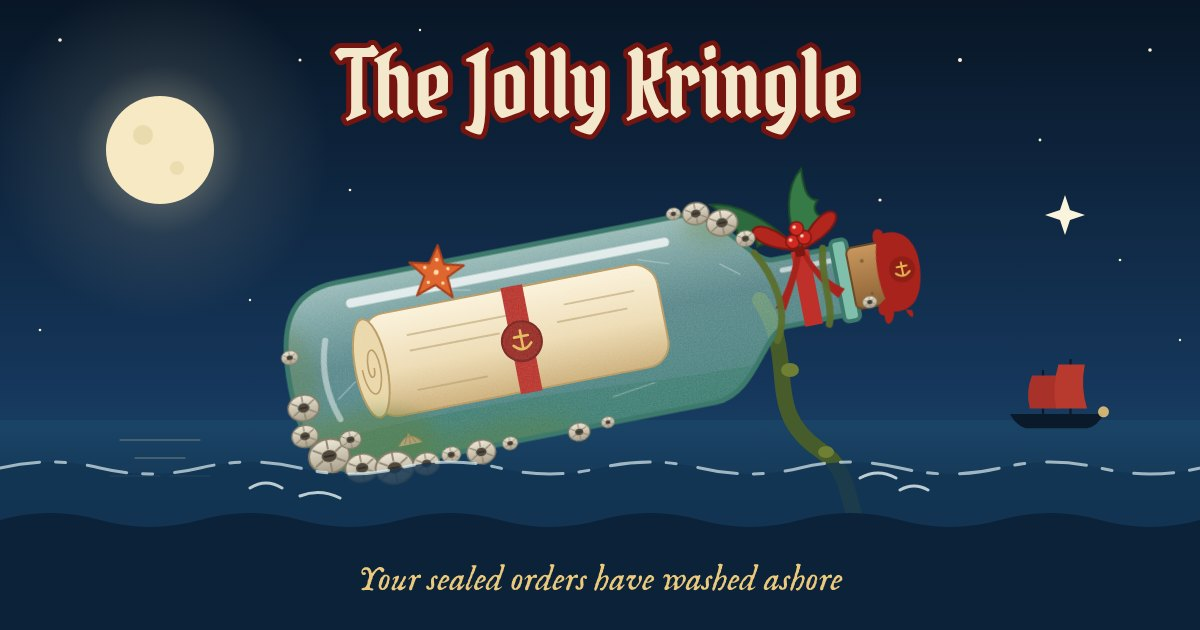
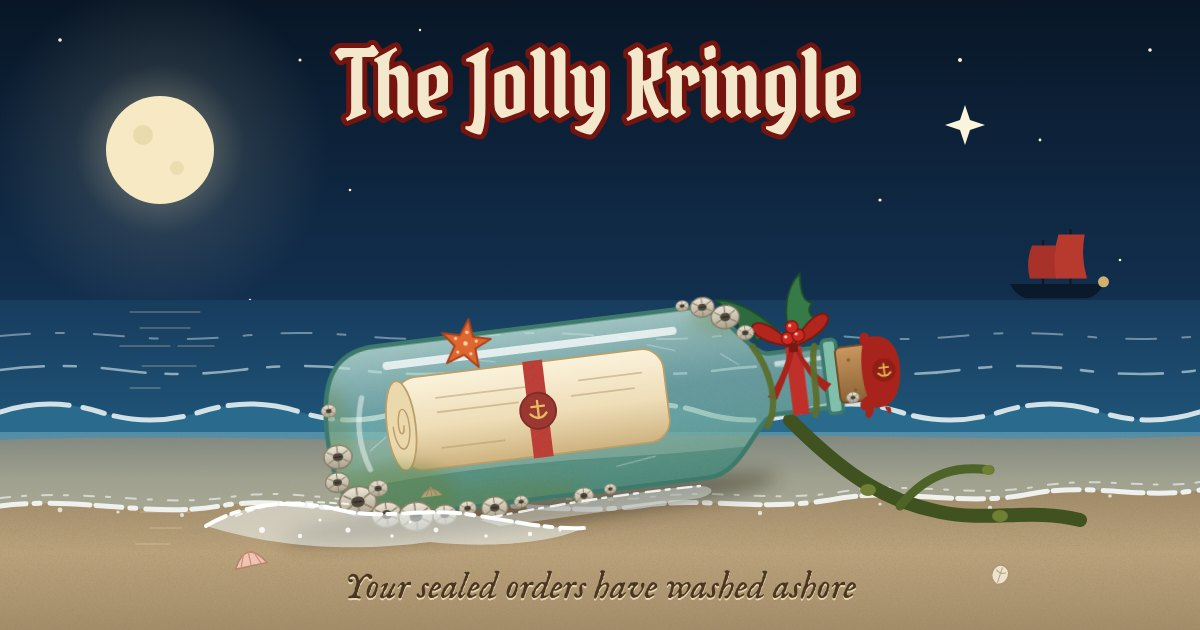
Wash the preview-card bottle up on the beach
The bottle now rests on wet sand right at the edge of the surf, with sea
foam lapping round its base, kelp and shells washed up beside it, and the
tagline written in the sand. Breakers roll in behind, and the Jolly
Kringle sails off on the horizon.

Claude-Session: https://claude.ai/code/session_017S5QJgJcurXaXt96dud6Md

diff --git a/dev/invite-card.html b/dev/invite-card.html
@@ -13,7 +13,8 @@
   html, body { margin: 0; width: 1200px; height: 630px; overflow: hidden; background: #0c1f33; }
   svg { display: block; }
   .title { font-family: "Pirata One"; font-size: 92px; fill: #f4e8cc; }
-  .tag { font-family: "IM Fell English"; font-style: italic; font-size: 36px; fill: #ecca7c; }
+  .tag { font-family: "IM Fell English"; font-style: italic; font-size: 38px; }
+  .tag.sand { fill: #4a3520; }
 </style>
 </head>
 <body>
@@ -51,6 +52,20 @@
       <stop offset="0" stop-color="#efe8d8"/>
       <stop offset="1" stop-color="#a99f8b"/>
     </linearGradient>
+    <linearGradient id="sand" x1="0" y1="0" x2="0" y2="1">
+      <stop offset="0" stop-color="#6f6150"/>
+      <stop offset="0.22" stop-color="#9c8767"/>
+      <stop offset="0.6" stop-color="#bba37c"/>
+      <stop offset="1" stop-color="#a48d69"/>
+    </linearGradient>
+    <linearGradient id="farSea" x1="0" y1="0" x2="0" y2="1">
+      <stop offset="0" stop-color="#173c5e"/>
+      <stop offset="1" stop-color="#215a7e"/>
+    </linearGradient>
+    <filter id="grain" x="0" y="0" width="100%" height="100%">
+      <feTurbulence type="fractalNoise" baseFrequency="1.4" numOctaves="1" seed="3" result="n"/>
+      <feColorMatrix type="matrix" values="0 0 0 0 0.25  0 0 0 0 0.2  0 0 0 0 0.12  0 0 0 0.9 -0.35" in="n"/>
+    </filter>
     <!-- sea-worn frosting on the glass -->
     <filter id="frost" x="0" y="0" width="100%" height="100%">
       <feTurbulence type="fractalNoise" baseFrequency="0.9" numOctaves="2" seed="7" result="n"/>
@@ -86,30 +101,68 @@
     <circle cx="1040" cy="140" r="1.4"/><circle cx="1150" cy="50" r="1.8"/><circle cx="1120" cy="260" r="1.3"/>
     <circle cx="40" cy="330" r="1.3"/><circle cx="420" cy="30" r="1.2"/><circle cx="1180" cy="340" r="1.2"/>
   </g>
-  <path d="M1060 210 l5 -15 l5 15 l15 5 l-15 5 l-5 15 l-5 -15 l-15 -5 z" fill="#fbf4dd"/>
+  <path d="M960 120 l5 -15 l5 15 l15 5 l-15 5 l-5 15 l-5 -15 l-15 -5 z" fill="#fbf4dd"/>
 
-  <!-- far sea and a distant Jolly Kringle on the horizon -->
-  <rect y="420" width="1200" height="210" fill="url(#sea)"/>
-  <g transform="translate(1010 392) scale(0.55)">
+  <!-- the sea out to the horizon, with the Jolly Kringle sailing off -->
+  <rect y="300" width="1200" height="160" fill="url(#farSea)"/>
+  <g transform="translate(1010 262) scale(0.55)">
     <path d="M0 40 L170 40 Q160 62 140 66 L28 66 Q10 60 0 40 Z" fill="#0b1a2b"/>
     <path d="M60 40 V-40 M110 40 V-60" stroke="#0b1a2b" stroke-width="4"/>
     <path d="M40 -30 L84 -30 Q78 0 88 30 L36 30 Q28 0 40 -30 Z" fill="#a8322a"/>
     <path d="M88 -50 L136 -50 Q128 -10 140 30 L84 30 Q76 -10 88 -50 Z" fill="#b83a2e"/>
     <circle cx="170" cy="36" r="10" fill="#ffd27a" opacity="0.8"/>
   </g>
-  <g stroke="#f6e7b8" stroke-linecap="round" opacity="0.4">
-    <path d="M120 440 H200 M135 458 H185 M110 476 H160 M170 476 H210"/>
+  <g stroke="#f6e7b8" stroke-linecap="round" opacity="0.45">
+    <path d="M130 312 H200 M140 328 H190 M120 346 H170 M178 346 H214 M142 366 H196 M130 388 H160"/>
+  </g>
+  <!-- rows of breakers rolling in -->
+  <g fill="none" stroke="#dcecef" stroke-linecap="round">
+    <path d="M0 336 q60 -6 120 0 t120 0 t120 0 t120 0 t120 0 t120 0 t120 0 t120 0 t120 0 t120 0" stroke-width="2" stroke-dasharray="30 26 8 30" opacity="0.45"/>
+    <path d="M0 370 q60 -8 120 0 t120 0 t120 0 t120 0 t120 0 t120 0 t120 0 t120 0 t120 0 t120 0" stroke-width="2.6" stroke-dasharray="44 20 12 26" opacity="0.6"/>
+  </g>
+  <path d="M0 412 q50 -16 100 0 t100 0 t100 0 t100 0 t100 0 t100 0 t100 0 t100 0 t100 0 t100 0 t100 0 t100 0 V470 H0 Z" fill="#2a6a8c"/>
+  <path d="M0 412 q50 -16 100 0 t100 0 t100 0 t100 0 t100 0 t100 0 t100 0 t100 0 t100 0 t100 0 t100 0 t100 0" stroke="#f2f8f8" stroke-width="5" fill="none" stroke-linecap="round" stroke-dasharray="70 14 22 10" opacity="0.85"/>
+
+  <!-- the beach: wet sand at the waterline, drying toward us -->
+  <path d="M0 440 C200 432 400 446 600 438 C800 430 1000 444 1200 436 V630 H0 Z" fill="url(#sand)"/>
+  <path d="M0 440 C200 432 400 446 600 438 C800 430 1000 444 1200 436 V630 H0 Z" filter="url(#grain)" opacity="0.55"/>
+  <!-- moonlight glinting on the wet sand -->
+  <g stroke="#f6e7b8" stroke-linecap="round" opacity="0.35">
+    <path d="M140 512 H190 M150 528 H182 M136 544 H170"/>
+  </g>
+
+  <!-- a thin sheet of surf running up the sand, with a lacy foam edge -->
+  <path d="M0 432 H1200 V490 C1140 500 1090 482 1030 494 C960 508 900 486 830 500 C760 512 700 496 640 506 C560 516 500 498 430 508 C350 520 290 494 220 506 C150 518 80 496 0 506 Z" fill="#a9dbe3" fill-opacity="0.32"/>
+  <g fill="none" stroke="#f7fbfb" stroke-linecap="round">
+    <path d="M0 506 C80 496 150 518 220 506 C290 494 350 520 430 508 C500 498 560 516 640 506 C700 496 760 512 830 500 C900 486 960 508 1030 494 C1090 482 1140 500 1200 490" stroke-width="5" stroke-dasharray="26 8 6 10 40 6" opacity="0.9"/>
+    <path d="M0 498 C90 488 160 508 230 497 C300 486 360 510 440 499 C520 489 570 506 650 497 C720 488 770 503 840 492 C910 480 970 499 1040 486 C1100 476 1150 490 1200 482" stroke-width="2" stroke-dasharray="10 12 4 16" opacity="0.6"/>
+  </g>
+  <g fill="#f7fbfb" opacity="0.75">
+    <circle cx="60" cy="510" r="2.4"/><circle cx="118" cy="512" r="1.6"/><circle cx="182" cy="515" r="2"/><circle cx="270" cy="505" r="1.8"/>
+    <circle cx="760" cy="513" r="2.2"/><circle cx="880" cy="504" r="1.6"/><circle cx="990" cy="508" r="2.2"/><circle cx="1110" cy="496" r="1.8"/>
   </g>
 
   <!-- title, kept narrow enough for a square crop -->
   <text class="title" x="600" y="118" text-anchor="middle" style="paint-order: stroke" stroke="#761510" stroke-width="10" stroke-linejoin="round">The Jolly Kringle</text>
 
-  <!-- trailing kelp behind the bottle -->
-  <path d="M760 300 C800 360 760 410 820 450 C860 476 840 520 880 560" stroke="#4d5f26" stroke-width="16" fill="none" stroke-linecap="round" opacity="0.9"/>
-  <g fill="#6f7f33"><ellipse cx="790" cy="370" rx="9" ry="7"/><ellipse cx="826" cy="452" rx="8" ry="6"/><ellipse cx="862" cy="520" rx="7" ry="5"/></g>
+  <!-- soft shadow where the bottle rests in the sand -->
+  <ellipse cx="530" cy="508" rx="250" ry="18" transform="rotate(-7 530 508)" fill="#2c2418" opacity="0.45" filter="url(#soft)"/>
+  <!-- kelp washed up beside the bottle -->
+  <path d="M790 420 C840 470 880 500 940 512 C990 522 1030 508 1080 520" stroke="#3f5220" stroke-width="14" fill="none" stroke-linecap="round"/>
+  <path d="M900 506 C930 470 960 466 990 470" stroke="#4d6327" stroke-width="9" fill="none" stroke-linecap="round"/>
+  <g fill="#6f7f33"><ellipse cx="868" cy="490" rx="8" ry="6"/><ellipse cx="1000" cy="516" rx="8" ry="6"/><ellipse cx="988" cy="470" rx="6" ry="5"/></g>
+  <!-- a couple of shells -->
+  <g transform="translate(250 560) rotate(-12)">
+    <path d="M-16 6 Q0 -22 16 6 Z" fill="#f0c4b0" stroke="#b9826c" stroke-width="1.5"/>
+    <path d="M-10 5 L-4 -10 M0 5 V-13 M10 5 L4 -10" stroke="#c9917a" stroke-width="1.3"/>
+  </g>
+  <g transform="translate(1000 575) rotate(18)">
+    <path d="M0 -10 C10 -10 12 6 0 10 C-12 6 -10 -10 0 -10 Z" fill="#efe2cc" stroke="#a99677" stroke-width="1.4"/>
+    <path d="M0 -8 V8 M-5 -4 Q0 0 5 -4" stroke="#b9a684" stroke-width="1.1" fill="none"/>
+  </g>
 
-  <!-- the bottle, tipped up toward the neck -->
-  <g transform="translate(590 330) rotate(-11)">
+  <!-- the bottle, washed up and resting in the sand -->
+  <g transform="translate(600 405) rotate(-7) scale(0.9)">
     <!-- shadowed glass body -->
     <path d="M-240 -95 H110 C150 -95 170 -36 192 -34 H262 V34 H192 C170 36 150 95 110 95 H-240 C-290 95 -305 60 -305 0 C-305 -60 -290 -95 -240 -95 Z" fill="url(#glass)"/>
 
@@ -198,16 +251,21 @@
     <use href="#star" transform="translate(-140 -86) rotate(14) scale(1.05)"/>
   </g>
 
-  <!-- near water lapping over the bottom of the bottle -->
-  <path d="M0 468 q50 -12 100 0 t100 0 t100 0 t100 0 t100 0 t100 0 t100 0 t100 0 t100 0 t100 0 t100 0 t100 0 V630 H0 Z" fill="#123553" fill-opacity="0.82"/>
-  <path d="M0 468 q50 -12 100 0 t100 0 t100 0 t100 0 t100 0 t100 0 t100 0 t100 0 t100 0 t100 0 t100 0 t100 0" stroke="#dcecef" stroke-width="3" fill="none" stroke-dasharray="40 16 10 22" opacity="0.7" stroke-linecap="round"/>
-  <g stroke="#e6f2f3" stroke-width="3" fill="none" stroke-linecap="round" opacity="0.8">
-    <path d="M250 488 q16 -10 32 0 M300 496 q20 -8 40 2 M860 478 q18 -10 36 0 M900 490 q14 -8 28 0"/>
+  <!-- sea foam lapping round the bottle's base -->
+  <path d="M206 526 C250 500 300 500 340 510 C380 520 420 508 466 514 C510 520 548 530 584 528 C548 544 488 548 430 542 C370 550 290 552 206 526 Z" fill="#eef7f7" fill-opacity="0.55"/>
+  <path d="M206 526 C250 500 300 500 340 510 C380 520 420 508 466 514 C510 520 548 530 584 528" stroke="#ffffff" stroke-width="4" fill="none" stroke-linecap="round" stroke-dasharray="22 6 8 8 30 5"/>
+  <path d="M236 516 C280 498 312 502 350 504" stroke="#ffffff" stroke-width="2" fill="none" stroke-linecap="round" stroke-dasharray="6 6" opacity="0.8"/>
+  <path d="M480 520 C540 508 610 496 690 486 C712 484 720 492 700 498 C630 508 560 518 500 526 Z" fill="#eef7f7" fill-opacity="0.4"/>
+  <path d="M488 518 C548 506 620 494 700 486" stroke="#ffffff" stroke-width="2.4" fill="none" stroke-linecap="round" stroke-dasharray="14 6 4 8" opacity="0.85"/>
+  <g fill="#ffffff" opacity="0.85">
+    <circle cx="262" cy="530" r="3"/><circle cx="300" cy="536" r="2.2"/><circle cx="348" cy="530" r="2.6"/><circle cx="392" cy="536" r="1.8"/>
+    <circle cx="436" cy="530" r="2.4"/><circle cx="486" cy="536" r="1.8"/><circle cx="530" cy="534" r="2.2"/><circle cx="320" cy="520" r="1.6"/>
+    <circle cx="410" cy="522" r="1.4"/><circle cx="560" cy="530" r="1.5"/>
   </g>
-  <path d="M0 520 q50 -14 100 0 t100 0 t100 0 t100 0 t100 0 t100 0 t100 0 t100 0 t100 0 t100 0 t100 0 t100 0 V630 H0 Z" fill="#0c2239"/>
 
-  <!-- tagline -->
-  <text class="tag" x="600" y="590" text-anchor="middle">Your sealed orders have washed ashore</text>
+  <!-- tagline, written in the sand -->
+  <text class="tag" x="600" y="598" text-anchor="middle" fill="#e6d6b2" transform="translate(0 1.6)">Your sealed orders have washed ashore</text>
+  <text class="tag sand" x="600" y="598" text-anchor="middle">Your sealed orders have washed ashore</text>
 </svg>
 </body>
 </html>
